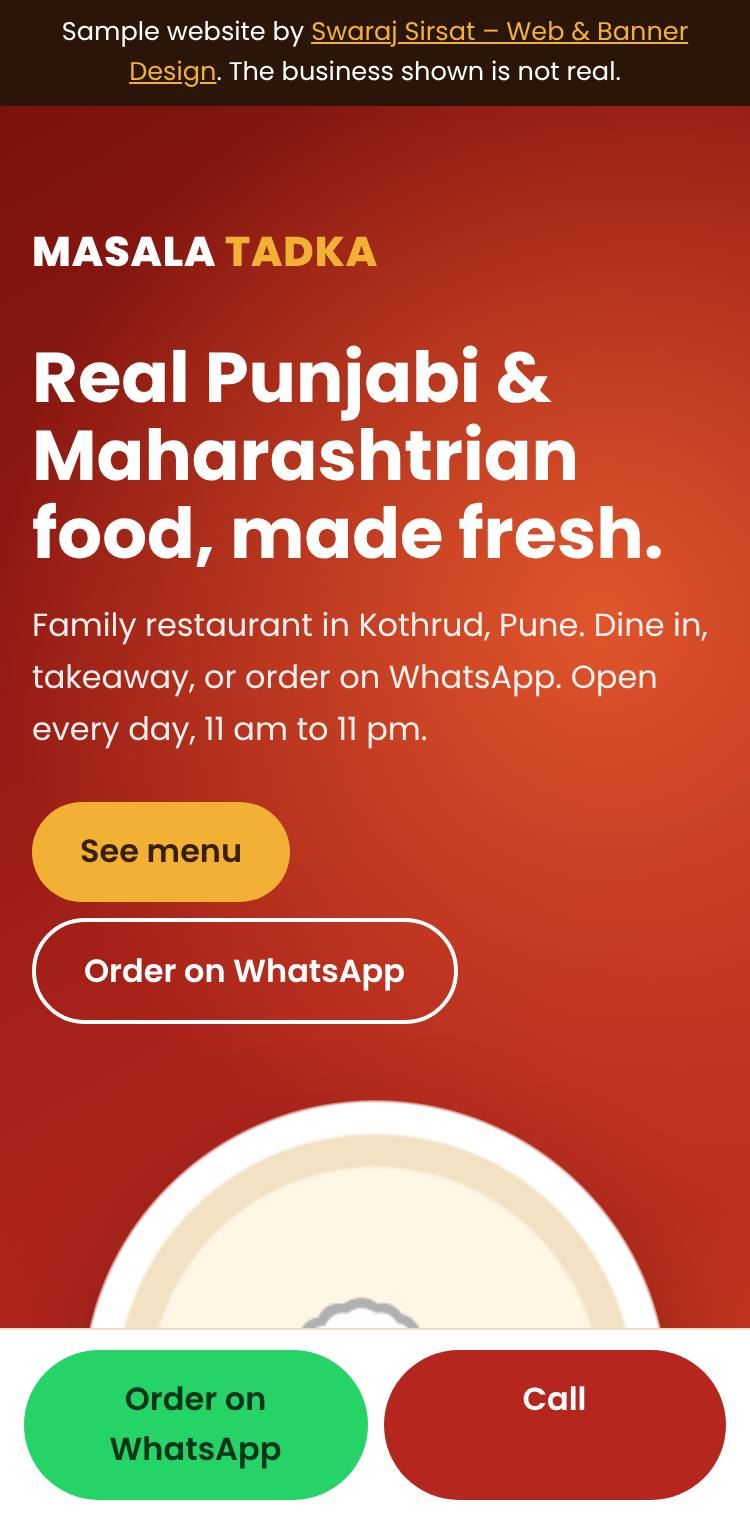
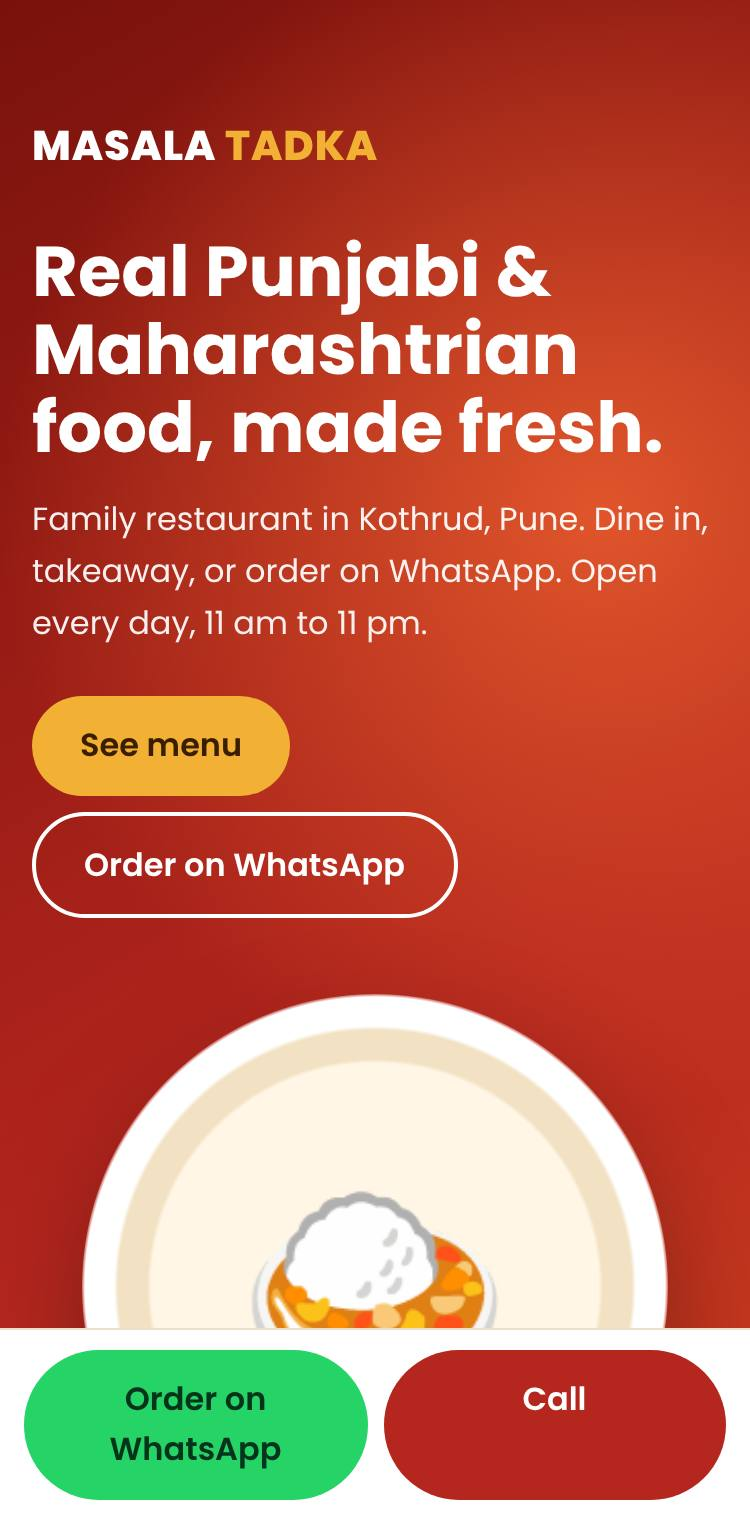
Show portfolio as 3D images, replace prices with free chat
- Portfolio designs shown as tilted 3D images without links
- Remove all prices; add free chat about the best price
- Recapture design screenshots without the sample bar

Claude-Session: https://claude.ai/code/session_01QVBnUfcErjbQbLWcunJSTp

diff --git a/index.html b/index.html
@@ -4,9 +4,9 @@
 <meta charset="utf-8">
 <meta name="viewport" content="width=device-width, initial-scale=1">
 <title>Swaraj Sirsat – Websites & Banners for Local Businesses | Pune</title>
-<meta name="description" content="Websites for clinics, restaurants, salons, homestays, shops and students across India. ₹9,999 – ₹19,999 one-time. Banners from ₹299. Free sample homepage before you pay. Based in Pune.">
+<meta name="description" content="Websites for clinics, restaurants, salons, homestays, shops and students across India. Free chat to discuss the best price for you. Free sample homepage before you pay. Based in Pune.">
 <meta property="og:title" content="Swaraj Sirsat – Web & Banner Design">
-<meta property="og:description" content="A website for your business, one-time price, done for you. See a free sample homepage with your own photos before you pay.">
+<meta property="og:description" content="A website for your business, done for you. See a free sample homepage with your own photos before you pay.">
 <meta property="og:type" content="website">
 <meta property="og:image" content="images/restaurant.jpg">
 <meta name="theme-color" content="#0a4d3d">
@@ -32,8 +32,7 @@
   "areaServed": "IN",
   "address": { "@type": "PostalAddress", "addressLocality": "Pune", "addressRegion": "Maharashtra", "addressCountry": "IN" },
   "telephone": "+91XXXXXXXXXX",
-  "email": "swarajsirsat677@gmail.com",
-  "priceRange": "₹299 – ₹19,999"
+  "email": "swarajsirsat677@gmail.com"
 }
 </script>
 
@@ -148,7 +147,7 @@
   .works { display: grid; gap: 26px; grid-template-columns: 1fr; margin-top: 26px; perspective: 1200px; }
   @media (min-width: 700px) { .works { grid-template-columns: repeat(2, 1fr); } }
   .work { position: relative; border-radius: var(--radius); background: #fff; border: 1px solid var(--line); text-decoration: none; color: inherit; display: flex; flex-direction: column;
-          transform-style: preserve-3d; transform: rotateX(var(--tx, 0deg)) rotateY(var(--ty, 0deg)); transition: transform .35s ease-out, box-shadow .35s; will-change: transform; }
+          transform-style: preserve-3d; transform: rotateX(var(--tx, 4deg)) rotateY(var(--ty, -7deg)); transition: transform .35s ease-out, box-shadow .35s; will-change: transform; }
   .work:hover { box-shadow: 0 30px 60px -25px rgba(8,57,46,.45); }
   .work .shot { aspect-ratio: 16 / 10; border-radius: var(--radius) var(--radius) 0 0; overflow: hidden; position: relative; background: #e9eeec; }
   .work .shot img { width: 100%; height: 100%; object-fit: cover; object-position: top; transition: transform 6s ease; }
@@ -162,6 +161,10 @@
   .label { display: inline-block; font-size: .7rem; font-weight: 700; text-transform: uppercase; letter-spacing: .06em; padding: 3px 10px; border-radius: 999px; margin-bottom: 8px; }
   .label.live { background: #dff7ea; color: #0f6b3a; }
   .label.sample { background: #eef0ff; color: #4a3fb5; }
+  .work:nth-child(even) { --ty: 7deg; }
+  .work.reveal.in { transform: rotateX(var(--tx, 4deg)) rotateY(var(--ty, -7deg)); }
+  .work:hover { --tx: 0deg; --ty: 0deg; }
+  .work .shot { box-shadow: 0 24px 40px -24px rgba(0,0,0,.45); }
   .work.hide { display: none; }
 
   /* Steps */
@@ -250,7 +253,7 @@
     <a href="#top" class="logo"><i>S</i><div>Swaraj Sirsat<span>Web &amp; Banner Design · Pune</span></div></a>
     <nav>
       <a href="#work">Our work</a>
-      <a href="#pricing">Prices</a>
+      <a href="#pricing">Services</a>
       <a href="#how">How it works</a>
       <a href="#faq">Questions</a>
       <a class="btn btn-wa" href="https://wa.me/91XXXXXXXXXX?text=Namaste%20Swaraj%20ji%2C%20I%20want%20a%20website%20for%20my%20business." target="_blank" rel="noopener">WhatsApp</a>
@@ -266,13 +269,13 @@
   <div class="wrap hero-grid">
     <div>
       <span class="tag reveal"><b></b>Taking new projects · Pune &amp; all India</span>
-      <h1 class="reveal" style="--d:.1s">A proper website for your business. <span class="hl">One-time price.</span> I do all the work.</h1>
+      <h1 class="reveal" style="--d:.1s">A proper website for your business. <span class="hl">I do all the work.</span></h1>
       <p class="sub reveal" style="--d:.2s">Namaste ji. I'm Swaraj, a web designer from Pune. You send your photos and details on WhatsApp, and I make your website, show you a preview, and put it live. Customers find you on Google and contact you in one tap.</p>
       <div class="actions reveal" style="--d:.3s">
         <a class="btn btn-wa btn-big pulse" href="https://wa.me/91XXXXXXXXXX?text=Namaste%20Swaraj%20ji%2C%20I%20want%20a%20website%20for%20my%20business." target="_blank" rel="noopener"><svg><use href="#i-wa"/></svg>WhatsApp me</a>
         <a class="btn btn-call btn-big" href="tel:+91XXXXXXXXXX"><svg><use href="#i-call"/></svg>Call me</a>
       </div>
-      <p class="note reveal" style="--d:.4s">Websites ₹9,999 – ₹19,999 one-time · Banners ₹299 – ₹499 · Free sample homepage before you pay</p>
+      <p class="note reveal" style="--d:.4s">💬 Free chat to discuss the best price for you · 🎁 Free sample homepage before you pay</p>
     </div>
 
     <div class="stage reveal" style="--d:.2s" id="stage" aria-hidden="true">
@@ -299,11 +302,11 @@
   <div class="wrap">
     <span class="eyebrow reveal">Portfolio</span>
     <h2 class="reveal">Our work</h2>
-    <p class="lead reveal">A live website I've built, plus sample websites for different kinds of businesses. Tap any one to open it and see how it works on your phone.</p>
+    <p class="lead reveal">Websites I've designed and built for different kinds of businesses, made to work great on mobile phones.</p>
     <div class="filters reveal" role="group" aria-label="Filter projects">
       <button class="on" data-f="all">All</button>
       <button data-f="live">Live websites</button>
-      <button data-f="business">Business samples</button>
+      <button data-f="business">Business websites</button>
       <button data-f="student">Student CV</button>
     </div>
     <div class="works">
@@ -320,36 +323,33 @@
         </div>
         <span class="glare"></span>
       </a>
-      <a class="work reveal" style="--d:.1s" data-cat="business" href="samples/homestay.html" target="_blank" rel="noopener">
-        <div class="shot"><img src="images/homestay.jpg" alt="Sample homestay website" loading="lazy"></div>
+      <div class="work reveal" style="--d:.1s" data-cat="business">
+        <div class="shot"><img src="images/homestay.jpg" alt="Homestay website design" loading="lazy"></div>
         <div class="info">
-          <span class="label sample">Sample design</span>
+          <span class="label sample">Website design</span>
           <h3>Homestay website</h3>
           <p>Rooms with prices, home food, guest reviews, map and a "Book on WhatsApp" button. Also suits hotels and resorts.</p>
-          <span class="more">Open sample →</span>
         </div>
         <span class="glare"></span>
-      </a>
-      <a class="work reveal" style="--d:.2s" data-cat="business" href="samples/restaurant.html" target="_blank" rel="noopener">
-        <div class="shot"><img src="images/restaurant.jpg" alt="Sample restaurant website" loading="lazy"></div>
+      </div>
+      <div class="work reveal" style="--d:.2s" data-cat="business">
+        <div class="shot"><img src="images/restaurant.jpg" alt="Restaurant website design" loading="lazy"></div>
         <div class="info">
-          <span class="label sample">Sample design</span>
+          <span class="label sample">Website design</span>
           <h3>Restaurant website</h3>
           <p>Menu with prices, timings, home delivery info and "Order on WhatsApp". Also suits cafés, bakeries and sweet shops.</p>
-          <span class="more">Open sample →</span>
         </div>
         <span class="glare"></span>
-      </a>
-      <a class="work reveal" style="--d:.3s" data-cat="student" href="samples/student-cv.html" target="_blank" rel="noopener">
-        <div class="shot"><img src="images/student-cv.jpg" alt="Sample student CV website" loading="lazy"></div>
+      </div>
+      <div class="work reveal" style="--d:.3s" data-cat="student">
+        <div class="shot"><img src="images/student-cv.jpg" alt="Student CV website design" loading="lazy"></div>
         <div class="info">
-          <span class="label sample">Sample design</span>
+          <span class="label sample">Website design</span>
           <h3>Student CV website</h3>
           <p>A personal website for students and freshers: skills, projects, education and a CV download. Share one link with companies.</p>
-          <span class="more">Open sample →</span>
         </div>
         <span class="glare"></span>
-      </a>
+      </div>
     </div>
   </div>
 </section>
@@ -384,15 +384,14 @@
 <!-- PRICING -->
 <section id="pricing" class="soft pricing">
   <div class="wrap">
-    <span class="eyebrow reveal">Prices</span>
-    <h2 class="reveal">Simple, one-time prices</h2>
-    <p class="lead reveal">No monthly design fees. You'll know the exact price before I start.</p>
+    <span class="eyebrow reveal">Services</span>
+    <h2 class="reveal">What I can make for you</h2>
+    <p class="lead reveal">Every business is different, so there is no fixed price list. Let's have a free chat and find the best price for you.</p>
     <div class="grid grid-2">
       <div class="card featured reveal">
-        <span class="badge">Most popular</span>
+        <span class="badge">Most asked</span>
         <h3>Done-for-you website</h3>
-        <div class="price">₹9,999 – ₹19,999</div>
-        <p class="price-note">One-time. Depends on the number of pages and features.</p>
+        <p class="price-note">Complete website, made and put live for you.</p>
         <ul class="check">
           <li>Made from a ready template for your type of business</li>
           <li>Looks great on mobile phones</li>
@@ -403,12 +402,11 @@
           <li>Help linking your Google Business Profile</li>
           <li>I put the website live for you</li>
         </ul>
-        <a class="btn btn-wa" href="https://wa.me/91XXXXXXXXXX?text=Namaste%20Swaraj%20ji%2C%20I%20want%20to%20know%20the%20price%20of%20a%20website%20for%20my%20business." target="_blank" rel="noopener"><svg><use href="#i-wa"/></svg>Ask for exact price</a>
+        <a class="btn btn-wa" href="https://wa.me/91XXXXXXXXXX?text=Namaste%20Swaraj%20ji%2C%20I%20want%20to%20discuss%20a%20website%20for%20my%20business." target="_blank" rel="noopener"><svg><use href="#i-wa"/></svg>Free chat about price</a>
       </div>
       <div class="card reveal" style="--d:.1s">
         <h3>Banner design</h3>
-        <div class="price">₹299 – ₹499</div>
-        <p class="price-note">Per banner, depending on size and detail.</p>
+        <p class="price-note">Ready-to-post designs for social media and print.</p>
         <ul class="check">
           <li>Instagram and Facebook posts and stories</li>
           <li>WhatsApp status and Google Business posts</li>
@@ -419,7 +417,14 @@
         <a class="btn btn-outline" href="https://wa.me/91XXXXXXXXXX?text=Namaste%20Swaraj%20ji%2C%20I%20need%20a%20banner%20design." target="_blank" rel="noopener">Order a banner</a>
       </div>
     </div>
-    <p class="lead reveal" style="margin-top:20px">Domain name and hosting are paid separately to the provider. I'll help you choose and set them up. Student CV websites: ask me on WhatsApp for the price.</p>
+    <div class="offer reveal" style="margin-top:28px">
+      <div>
+        <h2>Get a free chat about price</h2>
+        <p>Tell me about your business on WhatsApp or a quick call. We'll talk about what you need, and I'll suggest the best price for you. No pressure, no obligation.</p>
+      </div>
+      <a class="btn btn-wa btn-big" href="https://wa.me/91XXXXXXXXXX?text=Namaste%20Swaraj%20ji%2C%20I%20would%20like%20a%20free%20chat%20about%20a%20website%20for%20my%20business." target="_blank" rel="noopener"><svg><use href="#i-wa"/></svg>Start free chat</a>
+    </div>
+    <p class="lead reveal" style="margin-top:20px">Domain name and hosting are paid separately to the provider. I'll help you choose and set them up. I also make personal CV websites for students.</p>
   </div>
 </section>
 
@@ -483,10 +488,10 @@
       <details><summary>Is there a monthly fee?</summary><p>No monthly design fee. You pay once for the website. Only the domain and hosting are paid yearly to the provider, and I'll help you pick a good, low-cost option.</p></details>
       <details><summary>Is the free sample really free?</summary><p>Yes. I make a sample homepage with your details. If you don't like it, you don't pay anything.</p></details>
       <details><summary>I'm already on Justdial / Practo / Google Maps. Why do I need a website?</summary><p>Keep those too. A website is your own page, with no competitors next to you and no charge per enquiry. You can add its link to your Google listing, Instagram and visiting card.</p></details>
-      <details><summary>Do you make CV websites for students?</summary><p>Yes. A simple personal website with your skills, projects, education and a CV download button. Send me a WhatsApp message for the price.</p></details>
+      <details><summary>Do you make CV websites for students?</summary><p>Yes. A simple personal website with your skills, projects, education and a CV download button. Send me a WhatsApp message and we can talk about it.</p></details>
       <details><summary>How long does it take?</summary><p>Usually a few days after I get your photos and details. A bigger website with more pages takes a little longer.</p></details>
       <details><summary>Can I change things later?</summary><p>Yes. Just send me a message on WhatsApp with what you want changed.</p></details>
-      <details><summary>Can I order only banners?</summary><p>Yes. Banners are a separate service, priced per design.</p></details>
+      <details><summary>Can I order only banners?</summary><p>Yes. Banners are a separate service. Just tell me what you need.</p></details>
     </div>
   </div>
 </section>
@@ -565,8 +570,8 @@
         card.style.setProperty('--gy', (y * 100) + '%');
       });
       card.addEventListener('pointerleave', function () {
-        card.style.setProperty('--tx', '0deg');
-        card.style.setProperty('--ty', '0deg');
+        card.style.removeProperty('--tx');
+        card.style.removeProperty('--ty');
       });
     });
   }
